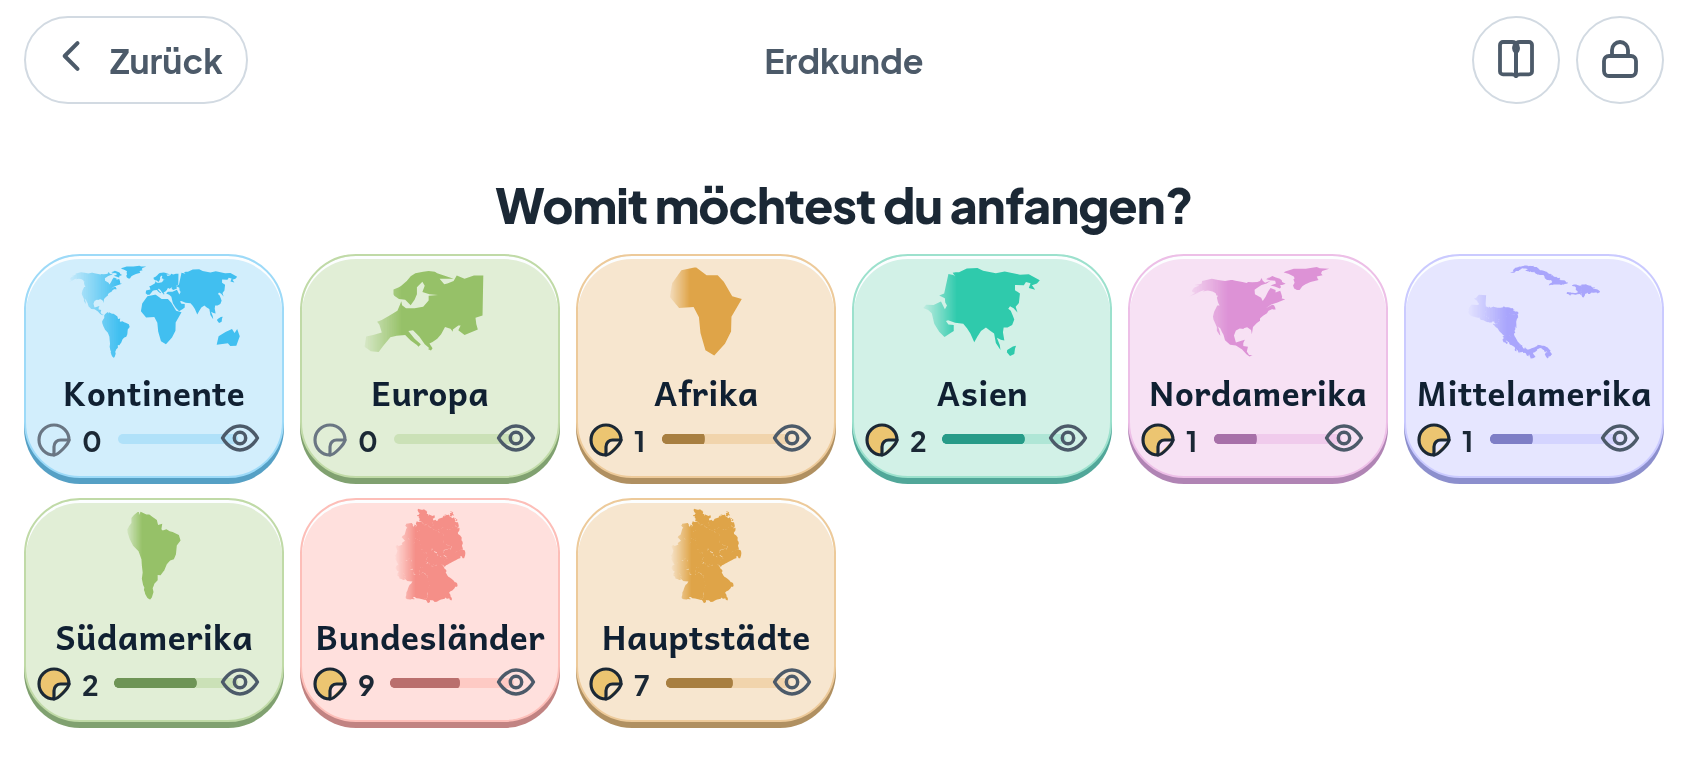
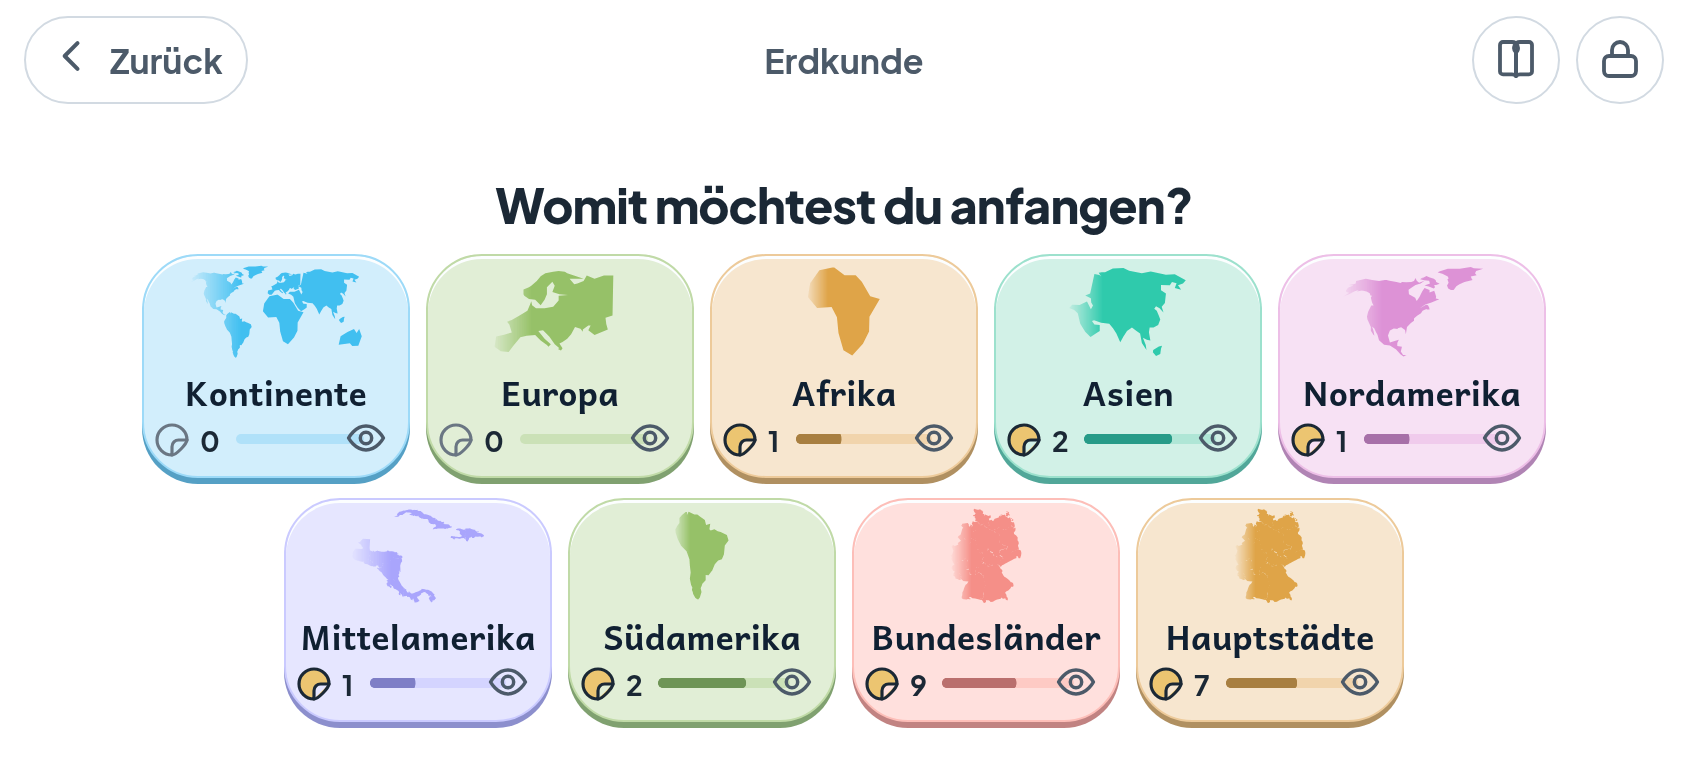
Q9: die letzte Reihe steht in der Mitte
Offen war „die zweite Reihe endet nach drei Kacheln - messbar als
Ausgeglichenheit der Reihen". Gemessen, und die Vermutung stimmte nur halb:
die Aufteilung war nicht das Problem, die AUSRICHTUNG war es.

  iPhone quer               6 + 4          138 pt aus der Mitte
  iPad quer, Fenster breit  4 + 4 + 2      278 pt
  iPad hoch, Fenster schmal 3 + 3 + 3 + 1  267 / 227 pt
  iPhone SE quer, hoch      5 + 5          0 pt

Ein Raster fuellt seine Reihen von links; bleibt die letzte halb leer,
klebt sie am linken Rand - auf zwei Groessen eine EINZELNE Kachel ganz
aussen. Das war nicht neu: die alte, flache Kachelform hatte dasselbe. Ich
hatte es der neuen zugeschrieben.

Ein umbrechender Fluss zentriert jede Reihe, auch die letzte. Alle sieben
Groessen stehen jetzt auf 0 Punkten, und beide Telefone teilen sich zu
5 + 5 statt 6 + 4. Bezahlt mit fester Kachelbreite statt Dehnung.

DER PRUEFER FAND SOFORT EINEN ZWEITEN FALL. Die Zusage steht in `passt`
(keine letzte Reihe weiter als 2 Punkte aus der Mitte), und beim ersten
Lauf meldete sie auch die PROFILWAHL: im schmalen Fenster stand Violeta
als vierte Kachel 228 Punkte weit aussen, ganz allein.

DREI NACHJUSTIERUNGEN, von den Toren erzwungen: die Weltenwahl bleibt ein
Raster (ihre grossen Kacheln liefen im Fluss 104 Punkte unten heraus, und
das Problem hat sie gar nicht); 160 statt 170 Punkte fuer die
Profilkacheln (auf dem Zielgeraet mit Leiste bleiben 726, vier zu 170
[…]

diff --git a/prototyp/vorlage.html b/prototyp/vorlage.html
@@ -388,13 +388,28 @@ body{background:linear-gradient(168deg,var(--grund) 0%,var(--grund-2) 100%);
    und zwei Reihen; dann steht jeder Name auf einer Zeile.
    `auto-fit` rechnet das je Bildschirm selbst aus - auf dem Telefon
    hochkant wird daraus eine Spalte. */
-.wahl{display:grid;gap:var(--r4);justify-content:center;width:100%;max-width:1100px;
-  grid-template-columns:repeat(auto-fit,minmax(min(240px,100%),1fr))}
+/* Jede Kachelwand bricht ZENTRIERT um (Q9).
+ *
+ * Ein Raster fuellt seine Reihen von links; bleibt die letzte halb leer,
+ * klebt sie am linken Rand. Gemessen stand die letzte Reihe auf fuenf von
+ * sieben Groessen 138 bis 278 Punkte aus der Mitte - und die Profilwahl
+ * setzte im schmalen Fenster ihre vierte Kachel 228 Punkte weit nach
+ * aussen, ganz allein. Das sieht aus wie ein Fehler und nicht wie das Ende
+ * einer Liste. Ein Raster kann das nicht: seine Spuren stehen fest, auch
+ * die leeren. Ein umbrechender Fluss zentriert jede Reihe, auch die letzte.
+ *
+ * Bezahlt wird es damit, dass die Kacheln eine feste Breite haben statt
+ * sich zu dehnen: an den Reihenenden bleibt Luft. Die ist hier richtig -
+ * gleich breite Kacheln lesen sich besser als drei gedehnte und eine
+ * schmale. `max-width:100%` haelt sie auf dem Telefon hochkant im Bild. */
+.wahl{display:flex;flex-wrap:wrap;gap:var(--r4);justify-content:center;
+  align-content:flex-start;width:100%;max-width:1100px}
+.wahl>*{flex:0 1 240px;max-width:100%}
 /* Kurze Namen brauchen keine 240 Punkte. Die drei Stadtstaaten heissen
    "Berlin", "Hamburg", "Bremen" - mit dem grossen Mass rutschten sie in
    zwei Reihen und schoben den "Verstanden"-Knopf aus dem Bild. Ein Mass
    fuer alle waere hier das Bequeme, nicht das Richtige. */
-.wahl.eng{grid-template-columns:repeat(auto-fit,minmax(min(150px,100%),1fr))}
+.wahl.eng>*{flex-basis:150px}
 /* Ein Fenster, das fuer DREI 240er-Spalten zu schmal ist (Q5).
  *
  * Gemessen, indem Kacheln dazugelegt wurden, bis es aus dem Bild lief:
@@ -418,7 +433,8 @@ body{background:linear-gradient(168deg,var(--grund) 0%,var(--grund-2) 100%);
  * gilt der eigene, kleinere Satz, und zwei Regeln, die sich um dieselbe
  * Zahl streiten, veralten getrennt. */
 @media (min-height:441px) and (max-width:780px){
-  .wahl{grid-template-columns:repeat(auto-fit,minmax(min(200px,100%),1fr))}
+  .wahl>*{flex-basis:200px}
+  .wahl.ebenen>*{flex-basis:200px}
   .kachel .ueber{display:none}
   .kachel .name{font-size:var(--s1)}
 }
@@ -441,7 +457,26 @@ body{background:linear-gradient(168deg,var(--grund) 0%,var(--grund-2) 100%);
  * Kachelnamen fielen von ihren 4,7 auf 2,33:1. Zwei Tore, zwei Seiten
  * derselben Kachel - und das schmalere Mass war die schlechtere Antwort,
  * obwohl es die naheliegende war. */
-.wahl.ebenen{gap:var(--r3)}
+/* Die Ebenenwahl bricht ZENTRIERT um, nicht linksbuendig (Q9).
+ *
+ * Ein Raster fuellt seine Reihen von links; bleibt die letzte halb leer,
+ * klebt sie am linken Rand. Gemessen war die letzte Reihe auf fuenf von
+ * sieben Groessen 138 bis 278 Punkte aus der Mitte - auf dem iPad hoch und
+ * im schmalen Fenster stand dort eine EINZELNE Kachel ganz aussen, und das
+ * sieht aus wie ein Fehler und nicht wie das Ende einer Liste.
+ *
+ * Ein Raster kann das nicht: seine Spuren stehen fest, auch die leeren.
+ * Ein umbrechender Fluss kann es - er zentriert jede Reihe, auch die
+ * letzte. Bezahlt wird es damit, dass die Kacheln eine feste Breite haben
+ * statt sich zu dehnen; auf breiten Schirmen bleibt an den Reihenenden
+ * Luft, und die ist hier richtig: zwoelf gleich breite Kacheln lesen sich
+ * besser als acht gedehnte und vier schmale.
+ *
+ * Die Breiten sind dieselben wie vorher, nur als Flussmass statt als
+ * Spurenmass. */
+.wahl.ebenen{gap:var(--r3);display:flex;flex-wrap:wrap;
+  justify-content:center;align-content:flex-start}
+.wahl.ebenen>*{flex:0 0 240px;max-width:100%}
 /* ---- Die Kachelsprache (R2, Fassung „B · Bild" auf Weiss) -------------
    Auf weissem Grund traegt nicht mehr die Flaeche, sondern der RAND: 26 %
    Fuellung aus dem eigenen Ton, 52 % Rand daraus. Und jede Kachel zeigt
@@ -556,7 +591,15 @@ body{background:linear-gradient(168deg,var(--grund) 0%,var(--grund-2) 100%);
 /* Die Fachwelten (D4). Zwei grosse Karten statt neun Kacheln: das Kind
    waehlt erst das Fach. Sie duerfen breiter sein als eine Ebenenkachel -
    es sind zwei, und sie sollen unverwechselbar sein. */
-.wahl.weltwahl{grid-template-columns:repeat(auto-fit,minmax(min(260px,100%),1fr));
+/* Die WELTENWAHL bleibt ein Raster.
+   Sie traegt zwei bis drei grosse Kacheln, die sich ueber die Breite
+   dehnen und eine Mindesthoehe haben - im Fluss stehen sie in ihrer
+   Eigenbreite, brechen auf dem Telefon in zwei Reihen um und laufen unten
+   heraus (gemessen: 104 Punkte). Und das Problem, das der Fluss loest,
+   hat sie gar nicht: bei drei Kacheln in einer Reihe gibt es keine halb
+   leere letzte. */
+.wahl.weltwahl{display:grid;
+  grid-template-columns:repeat(auto-fit,minmax(min(260px,100%),1fr));
   max-width:760px}
 /* Seit der dritten Welt (N2a) sind es bei Fiona DREI Karten, bei Lea und
    den Eltern zwei. Mit 260 Punkten Mindestbreite passten drei nicht mehr
@@ -1543,11 +1586,24 @@ code{font-family:ui-monospace,monospace;font-size:.9em;background:var(--linie);
      Ebene, die man nicht erreicht, traegt gar nichts. */
   .kachel .ueber{display:none}
   .kachel .name{font-size:var(--s1)}
-  .wahl{grid-template-columns:repeat(auto-fit,minmax(min(170px,100%),1fr))}
+  /* 160 statt 170: auf dem Zielgeraet MIT Leiste bleiben von 844 Punkten
+     726, und vier Profilkacheln zu 170 brauchen samt Abstand 728. Zwei
+     Punkte, und Violeta stand in einer zweiten Reihe im Wischstreifen.
+     Seit die Wand ein Fluss ist, dehnen sich die Kacheln nicht mehr auf
+     die Reihe - die Breite muss also von sich aus passen. */
+  .wahl>*{flex-basis:160px}
   /* Fuenf je Reihe, damit neun Ebenen in ZWEI Reihen stehen - daran haengt
-     die Hoehe des Kachelbildes (siehe oben). 120 Punkte, weil das schmalste
-     Fenster hier 667 misst und fuenf Spalten samt Abstand hineinpassen. */
-  .wahl.ebenen{grid-template-columns:repeat(auto-fit,minmax(min(120px,100%),1fr))}
+     die Hoehe des Kachelbildes (siehe oben). 134 Punkte, weil bei weniger
+     „Mittelamerika" umbricht und bei mehr nur vier je Reihe passen. */
+  .wahl.ebenen>*{flex-basis:134px}
+  /* Eine Stufe schmaler fuer das KLEINSTE Geraet (iPhone SE quer, 667):
+     dort passen bei 134 nur vier je Reihe, das waeren drei Reihen, und
+     drei hohe Kacheln laufen aus dem Bild. Weil „Mittelamerika" bei 118
+     umbricht, wird der Name dort eine Stufe kleiner. */
+  @media (max-width:700px){
+    .wahl.ebenen>*{flex-basis:118px}
+    .wahl.ebenen .kachel .name{font-size:var(--s-klein)}
+  }
   /* Die letzte Kachelreihe lag 3 Punkte im Streifen des iPhone. Die vier
      Punkte kommen aus dem Abstand ZWISCHEN den Kacheln, nicht aus der
      Auskunft in ihnen. */

diff --git a/docs/Lernkiste-STAND.md b/docs/Lernkiste-STAND.md
@@ -7678,3 +7678,60 @@ gewollt; die Grenze liegt bei 400 KB.
   beweist so wenig wie ein Tor, das nichts meldet.
 
 `npm run tor` grün in 177,2 s.
+
+## Q9 — die letzte Reihe steht in der Mitte
+
+Offen war: „die zweite Reihe endet nach drei Kacheln — messbar als
+Ausgeglichenheit der Reihen." Gemessen, und die Vermutung stimmte nur halb.
+
+### Was wirklich schiefstand
+
+Die Aufteilung war nicht das Problem. Das war die **Ausrichtung**:
+
+| | Reihen | letzte Reihe **aus der Mitte** |
+|---|---|---|
+| iPhone quer | 6 + 4 | **138 pt** |
+| iPad quer · Fenster breit | 4 + 4 + 2 | **278 pt** |
+| iPad hoch · Fenster schmal | 3 + 3 + 3 + **1** | **267 / 227 pt** |
+| iPhone SE quer · iPhone hoch | 5 + 5 · 2 × 5 | 0 pt |
+
+Ein Raster füllt seine Reihen von links; bleibt die letzte halb leer, klebt sie
+am linken Rand. Auf zwei Größen stand dort eine **einzelne Kachel ganz außen** —
+das sieht aus wie ein Fehler und nicht wie das Ende einer Liste. Und das war
+**nicht neu**: die alte, flache Kachelform hatte dasselbe. Ich hatte es der neuen
+zugeschrieben.
+
+Ein Raster kann das nicht besser: seine Spuren stehen fest, auch die leeren. Ein
+**umbrechender Fluss** kann es — er zentriert jede Reihe, auch die letzte. Alle
+sieben Größen stehen jetzt auf **0 Punkten aus der Mitte**, und beide Telefone
+teilen sich zu 5 + 5 statt 6 + 4.
+
+Bezahlt ist es damit, dass die Kacheln eine feste Breite haben statt sich zu
+dehnen: an den Reihenenden bleibt Luft. Die ist hier richtig — gleich breite
+Kacheln lesen sich besser als drei gedehnte und eine schmale.
+
+### Der Prüfer hat sofort einen zweiten Fall gefunden
+
+Die Zusage steht jetzt in `passt`: **keine letzte Reihe weiter als 2 Punkte aus
+der Mitte.** Beim ersten Lauf meldete sie nicht nur die Ebenenwahl, sondern auch
+die **Profilwahl** — im schmalen Fenster stand Violeta als vierte Kachel 228
+Punkte weit außen, ganz allein. Denselben Fehler, auf einem Bildschirm, über den
+niemand gesprochen hatte.
+
+### Drei Nachjustierungen, die die Tore erzwungen haben
+
+- **Die Weltenwahl bleibt ein Raster.** Ihre zwei bis drei großen Kacheln dehnen
+  sich über die Breite und haben eine Mindesthöhe; im Fluss standen sie in ihrer
+  Eigenbreite, brachen auf dem Telefon um und liefen 104 Punkte unten heraus. Und
+  das Problem, das der Fluss löst, hat sie gar nicht: drei Kacheln in einer Reihe
+  haben keine halb leere letzte.
+- **160 statt 170 Punkte für die Profilkacheln.** Auf dem Zielgerät mit Leiste
+  bleiben von 844 Punkten 726, und vier Kacheln zu 170 brauchen samt Abstand 728.
+  Zwei Punkte — und Violeta stand in einer zweiten Reihe im Wischstreifen. Solange
+  sich die Kacheln dehnten, fiel das nicht auf.
+- **Eine eigene Stufe für das kleinste Gerät.** Auf 667 Punkten passen bei 134er
+  Kacheln nur vier je Reihe, das wären drei Reihen, und drei hohe Kacheln laufen
+  aus dem Bild. Dort sind sie 118 breit und der Name eine Schriftstufe kleiner,
+  weil „Mittelamerika" sonst umbricht.
+
+`npm run tor` grün in 177,2 s.
